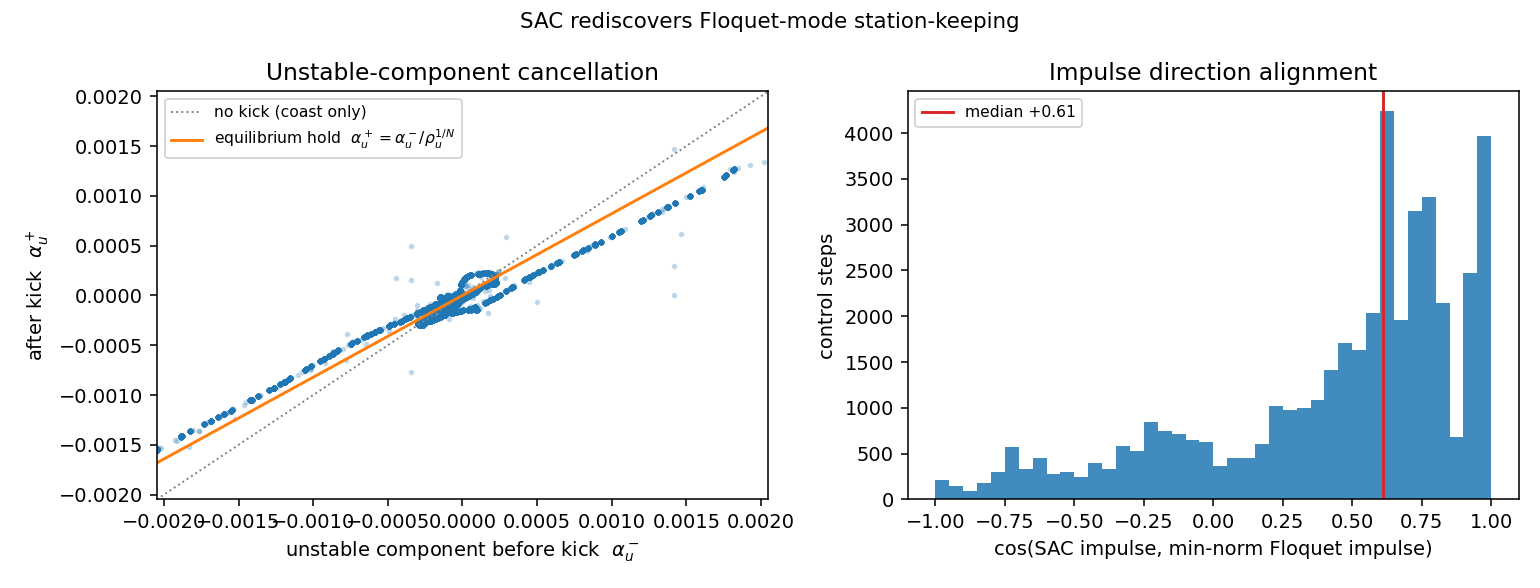
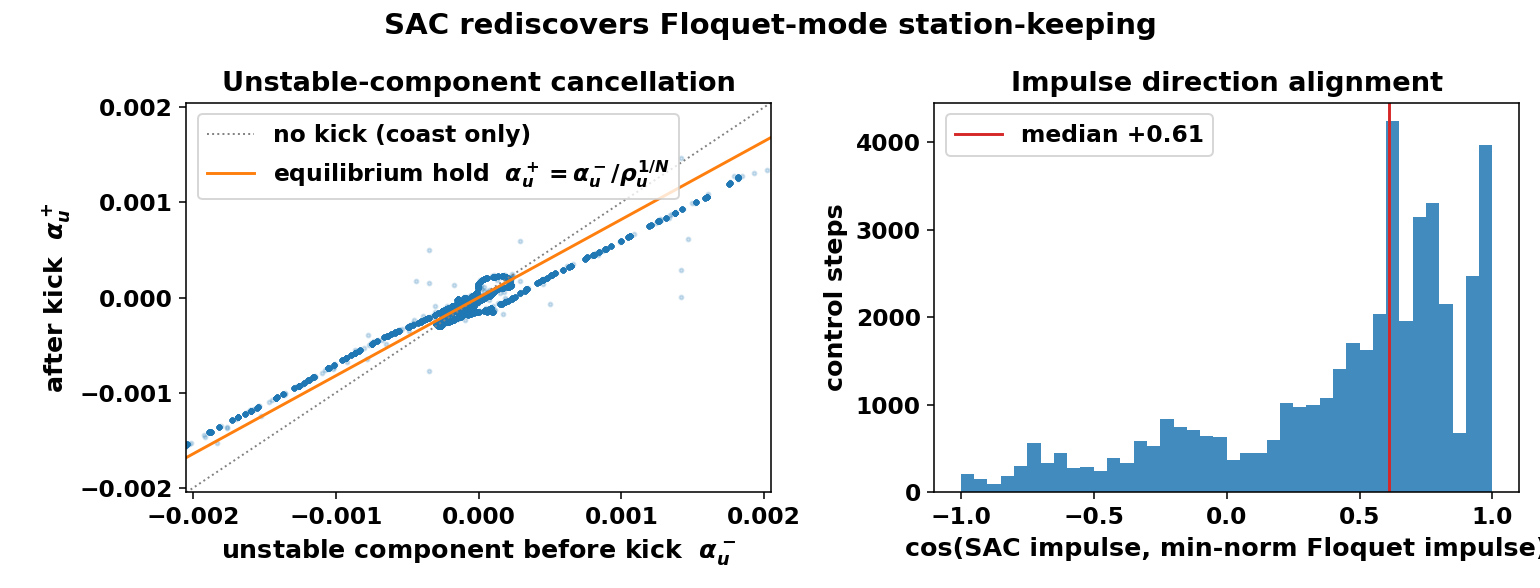
Bolder, larger figure styling for report legibility

diff --git a/scripts/generalization.py b/scripts/generalization.py
@@ -33,7 +33,8 @@ from stable_baselines3 import SAC
 sys.path.insert(0, os.path.dirname(os.path.dirname(os.path.abspath(__file__))))
 
 from envs import ReferenceOrbit, StationKeepingConfig, StationKeepingEnv  # noqa: E402
-from scripts.lqr_baseline import gain_schedule, LQRPolicy, eval_policy, summarise  # noqa: E402
+from scripts.lqr_baseline import (  # noqa: E402
+    gain_schedule, gain_schedule_periodic, LQRPolicy, eval_policy, summarise)
 from scripts.benchmark import EM_V_STAR_MS  # noqa: E402
 
 ROOT = os.path.dirname(os.path.dirname(os.path.abspath(__file__)))
@@ -74,10 +75,43 @@ def eval_sac_pooled(models, env, n_episodes):
     return (np.concatenate(dvr), np.concatenate(tot), np.concatenate(surv))
 
 
-def sweep(amps, n_sac, n_lqr, libration="L1"):
+def crossovers(rows, ret_tol=0.99):
+    """Where SAC starts to earn its keep as amplitude grows. Returns two amplitudes
+    (either None if it never happens in range):
+
+    dv_crossover     -- SAC's median dV/rev first drops to/below the LQR's while
+                        BOTH still hold the orbit (log-linear interpolation between
+                        the bracketing amplitudes). Below this, LQR is as good or
+                        cheaper and the linear model is adequate; above it, the
+                        residual nonlinearity a linear controller cannot see makes
+                        the learned policy cheaper.
+    retention_crossover -- smallest amplitude at which the LQR starts losing the
+                        orbit (retention < ret_tol) while SAC still holds it. The
+                        stark point: linearisation fails outright, SAC does not.
+    """
+    live = [r for r in rows if "sac" in r]
+    dv_x = None
+    both = [r for r in live if r["sac"]["retention_pooled"] >= ret_tol
+            and r["lqr"]["retention_pooled"] >= ret_tol]
+    for a, b in zip(both, both[1:]):
+        d0 = a["sac"]["dv_per_rev_median_ms"] - a["lqr"]["dv_per_rev_median_ms"]
+        d1 = b["sac"]["dv_per_rev_median_ms"] - b["lqr"]["dv_per_rev_median_ms"]
+        if d0 > 0.0 and d1 <= 0.0:              # SAC crosses from dearer to cheaper
+            frac = d0 / (d0 - d1)
+            dv_x = a["amplitude"] + frac * (b["amplitude"] - a["amplitude"])
+            break
+    ret_x = next((r["amplitude"] for r in live
+                  if r["lqr"]["retention_pooled"] < ret_tol
+                  and r["sac"]["retention_pooled"] >= ret_tol), None)
+    return {"dv_crossover_amplitude": dv_x, "retention_crossover_amplitude": ret_x,
+            "retention_tol": ret_tol}
+
+
+def sweep(amps, n_sac, n_lqr, libration="L1", lqr_schedule="periodic"):
     models, paths = sac_models()
+    schedule = gain_schedule_periodic if lqr_schedule == "periodic" else gain_schedule
     print(f"loaded {len(models)} SAC seeds (trained on L1); "
-          f"evaluating on {libration}; LQR rho={LQR_RHO}", flush=True)
+          f"evaluating on {libration}; LQR={lqr_schedule} rho={LQR_RHO}", flush=True)
     rows = []
     for amp in amps:
         cfg, ref = build_reference(amp, libration)
@@ -90,9 +124,9 @@ def sweep(amps, n_sac, n_lqr, libration="L1"):
         d, t, s = eval_sac_pooled(models, env, n_sac)
         sac = summarise(d, t, s, "SAC(zero-shot)")
 
-        _, gains = gain_schedule(ref, cfg, LQR_RHO)
+        _, gains = schedule(ref, cfg, LQR_RHO)
         d, t, s = eval_policy(LQRPolicy(gains, cfg), env, n_lqr)
-        lqr = summarise(d, t, s, "LQR(per-orbit)")
+        lqr = summarise(d, t, s, f"LQR-{lqr_schedule}(per-orbit)")
 
         rho_u = float(ref.monodromy_floquet()["rho_unstable"].real)
         rows.append({"amplitude": amp, "period": ref.period, "rho_unstable": rho_u,
@@ -101,9 +135,40 @@ def sweep(amps, n_sac, n_lqr, libration="L1"):
               f"SAC {sac['dv_per_rev_median_ms']:6.1f} m/s @{sac['retention_pooled']:.3f}  | "
               f"LQR {lqr['dv_per_rev_median_ms']:6.1f} m/s @{lqr['retention_pooled']:.3f}",
               flush=True)
+    xover = crossovers(rows)
+    if xover["dv_crossover_amplitude"] is not None:
+        print(f"dV crossover: SAC becomes cheaper at amplitude "
+              f"~{xover['dv_crossover_amplitude']:.4f} "
+              f"(~{xover['dv_crossover_amplitude']*384400:.0f} km)", flush=True)
+    if xover["retention_crossover_amplitude"] is not None:
+        print(f"retention crossover: LQR starts losing the orbit at amplitude "
+              f"~{xover['retention_crossover_amplitude']:.4f} "
+              f"(~{xover['retention_crossover_amplitude']*384400:.0f} km); SAC still holds",
+              flush=True)
     return {"n_sac_seeds": len(models), "n_sac_episodes": n_sac,
-            "n_lqr_episodes": n_lqr, "lqr_rho": LQR_RHO, "train_amplitude": TRAIN_AMP,
-            "libration_point": libration, "rows": rows}
+            "n_lqr_episodes": n_lqr, "lqr_rho": LQR_RHO, "lqr_schedule": lqr_schedule,
+            "train_amplitude": TRAIN_AMP, "libration_point": libration,
+            "crossovers": xover, "rows": rows}
+
+
+def _crossover_line(res):
+    """Prose summary of where SAC overtakes the linear baseline."""
+    x = res.get("crossovers", {})
+    parts = []
+    if x.get("dv_crossover_amplitude") is not None:
+        a = x["dv_crossover_amplitude"]
+        parts.append(f"SAC becomes the cheaper controller at amplitude "
+                     f"**~{a:.4f}** (~{a*384400:.0f} km): below this the linear model "
+                     f"is adequate and LQR matches or beats it; above it the residual "
+                     f"nonlinearity makes the learned policy cheaper.")
+    else:
+        parts.append("No dV crossover in the swept range (LQR is not overtaken on "
+                     "fuel where both hold the orbit).")
+    if x.get("retention_crossover_amplitude") is not None:
+        a = x["retention_crossover_amplitude"]
+        parts.append(f" The LQR then starts losing the orbit outright at **~{a:.4f}** "
+                     f"(~{a*384400:.0f} km) while SAC still holds it.")
+    return "**Crossover.** " + "".join(parts) + "\n"
 
 
 def write_markdown(res):
@@ -111,9 +176,10 @@ def write_markdown(res):
     lines = [f"# Generalisation across the {lib} Lyapunov orbit family\n",
              f"One SAC policy trained at amplitude {TRAIN_AMP} on an **L1** orbit "
              f"(pooled over {res['n_sac_seeds']} seeds), evaluated **zero-shot** on "
-             f"**{lib}** orbits across amplitudes; the LQR gain schedule is re-derived "
-             f"at each amplitude (rho={LQR_RHO}). SAC over {res['n_sac_episodes']} "
-             f"eps/seed, LQR over {res['n_lqr_episodes']} eps.\n",
+             f"**{lib}** orbits across amplitudes; the {res.get('lqr_schedule','periodic')} "
+             f"LQR gain schedule is re-derived at each amplitude (rho={LQR_RHO}). SAC over "
+             f"{res['n_sac_episodes']} eps/seed, LQR over {res['n_lqr_episodes']} eps.\n",
+             _crossover_line(res),
              "| amp | ~km | T (TU) | rho_u | SAC dV/rev [IQR] | SAC ret. | "
              "LQR dV/rev [IQR] | LQR ret. |",
              "|---|---|---|---|---|---|---|---|"]
@@ -151,21 +217,27 @@ def make_figure(res, path):
     lqr_ret = [r["lqr"]["retention_pooled"] for r in live]
 
     lib = res.get("libration_point", "L1")
+    from scripts._figstyle import apply_bold_style
+    apply_bold_style()
     fig, (ax1, ax2) = plt.subplots(1, 2, figsize=(11, 4.2))
-    fig.suptitle(f"SAC trained on L1, evaluated zero-shot on {lib}", fontsize=11)
+    fig.suptitle(f"SAC trained on L1, evaluated zero-shot on {lib}")
     ax1.plot(amp, sac_dv, "o-", label="SAC (one policy, zero-shot)", color="C0")
     ax1.plot(amp, lqr_dv, "s--", label="LQR (re-derived per orbit)", color="C1")
     ax1.axvline(TRAIN_AMP, color="grey", ls=":", lw=1, label="SAC training orbit")
+    xa = res.get("crossovers", {}).get("dv_crossover_amplitude")
+    if xa is not None:
+        ax1.axvline(xa, color="C2", ls="-.", lw=1.2,
+                    label=f"crossover ~{xa:.4f} (~{xa*384400:.0f} km)")
     ax1.set_xlabel("Lyapunov amplitude (canonical)")
     ax1.set_ylabel("dV per rev (m/s)")
-    ax1.set_yscale("log"); ax1.legend(fontsize=8); ax1.set_title("Fuel cost")
+    ax1.set_yscale("log"); ax1.legend(); ax1.set_title("Fuel cost")
 
     ax2.plot(amp, sac_ret, "o-", color="C0", label="SAC")
     ax2.plot(amp, lqr_ret, "s--", color="C1", label="LQR")
     ax2.axvline(TRAIN_AMP, color="grey", ls=":", lw=1)
     ax2.set_xlabel("Lyapunov amplitude (canonical)")
     ax2.set_ylabel("tube retention"); ax2.set_ylim(-0.05, 1.05)
-    ax2.legend(fontsize=8); ax2.set_title("Survival")
+    ax2.legend(); ax2.set_title("Survival")
     fig.tight_layout(); fig.savefig(path, dpi=140)
     print(f"wrote {path}")
 
@@ -180,8 +252,10 @@ def combined_figure(path):
     except ImportError:
         print("matplotlib not available -- skipping combined figure")
         return
+    from scripts._figstyle import apply_bold_style
+    apply_bold_style()
     fig, (ax1, ax2) = plt.subplots(1, 2, figsize=(11, 4.2))
-    fig.suptitle("One L1-trained SAC policy, zero-shot across families", fontsize=11)
+    fig.suptitle("One L1-trained SAC policy, zero-shot across families")
     for tag, style in [("", "-"), ("_L2", "--")]:
         f = os.path.join(ROOT, "results", f"benchmark_generalization{tag}.json")
         if not os.path.exists(f):
@@ -200,9 +274,9 @@ def combined_figure(path):
         ax2.plot(amp, [r["lqr"]["retention_pooled"] for r in live], "s" + style,
                  color="C1", label=f"LQR ({lib})")
     ax1.set_xlabel("Lyapunov amplitude (canonical)"); ax1.set_ylabel("dV per rev (m/s)")
-    ax1.set_yscale("log"); ax1.legend(fontsize=8); ax1.set_title("Fuel cost")
+    ax1.set_yscale("log"); ax1.legend(); ax1.set_title("Fuel cost")
     ax2.set_xlabel("Lyapunov amplitude (canonical)"); ax2.set_ylabel("tube retention")
-    ax2.set_ylim(-0.05, 1.05); ax2.legend(fontsize=8); ax2.set_title("Survival")
+    ax2.set_ylim(-0.05, 1.05); ax2.legend(); ax2.set_title("Survival")
     fig.tight_layout(); fig.savefig(path, dpi=140)
     print(f"wrote {path}")
 
@@ -214,6 +288,8 @@ def main():
     p.add_argument("--n-lqr", type=int, default=200)
     p.add_argument("--libration", default="L1", choices=["L1", "L2", "L3"],
                    help="libration point of the ORBITS TO EVALUATE (policy is always L1-trained)")
+    p.add_argument("--lqr-schedule", choices=["frozen", "periodic"], default="periodic",
+                   help="LQR baseline: 'periodic' is the LTV best-shot comparison")
     p.add_argument("--demo", action="store_true")
     p.add_argument("--combined", action="store_true",
                    help="only redraw the L1+L2 overlay from existing result JSONs")
@@ -226,7 +302,7 @@ def main():
         combined_figure(os.path.join(ROOT, "results", "generalization_combined.png"))
         return
 
-    res = sweep(args.amps, args.n_sac, args.n_lqr, args.libration)
+    res = sweep(args.amps, args.n_sac, args.n_lqr, args.libration, args.lqr_schedule)
     # L1 keeps the base filename; other points get suffixed so runs don't clobber.
     suffix = "" if args.libration == "L1" else f"_{args.libration}"
     with open(os.path.join(ROOT, "results", f"benchmark_generalization{suffix}.json"), "w") as f:
@@ -235,7 +311,6 @@ def main():
         f.write(write_markdown(res))
     make_figure(res, os.path.join(ROOT, "results", f"generalization{suffix}.png"))
     print(f"\nwrote results/benchmark_generalization{suffix}.{{json,md}}")
-    print("GENERALIZATION DONE")
 
 
 def _demo():

diff --git a/scripts/noise_study.py b/scripts/noise_study.py
@@ -114,21 +114,22 @@ def make_figure(res, path):
         print("matplotlib not available -- skipping figure")
         return
     km = [r["sigma_km"] for r in res["rows"]]
+    from scripts._figstyle import apply_bold_style
+    apply_bold_style()
     fig, (ax1, ax2) = plt.subplots(1, 2, figsize=(11, 4.2))
-    fig.suptitle("Zero-shot robustness to navigation noise (policy trained noise-free)",
-                 fontsize=11)
+    fig.suptitle("Zero-shot robustness to navigation noise (policy trained noise-free)")
     ax1.plot(km, [r["sac"]["dv_per_rev_median_ms"] for r in res["rows"]], "o-",
              color="C0", label="SAC (zero-shot)")
     ax1.plot(km, [r["lqr"]["dv_per_rev_median_ms"] for r in res["rows"]], "s--",
              color="C1", label="LQR (unfiltered)")
     ax1.set_xlabel("nav position 1-sigma (km)"); ax1.set_ylabel("dV per rev (m/s)")
-    ax1.set_yscale("log"); ax1.legend(fontsize=8); ax1.set_title("Fuel cost")
+    ax1.set_yscale("log"); ax1.legend(); ax1.set_title("Fuel cost")
     ax2.plot(km, [r["sac"]["retention_pooled"] for r in res["rows"]], "o-",
              color="C0", label="SAC")
     ax2.plot(km, [r["lqr"]["retention_pooled"] for r in res["rows"]], "s--",
              color="C1", label="LQR")
     ax2.set_xlabel("nav position 1-sigma (km)"); ax2.set_ylabel("tube retention")
-    ax2.set_ylim(-0.05, 1.05); ax2.legend(fontsize=8); ax2.set_title("Survival")
+    ax2.set_ylim(-0.05, 1.05); ax2.legend(); ax2.set_title("Survival")
     fig.tight_layout(); fig.savefig(path, dpi=140)
     print(f"wrote {path}")
 
@@ -140,10 +141,16 @@ def main():
     p.add_argument("--n-lqr", type=int, default=200)
     p.add_argument("--n-seeds", type=int, default=4)
     p.add_argument("--demo", action="store_true")
+    p.add_argument("--replot", action="store_true",
+                   help="redraw the figure from the cached JSON, without re-running the sweep")
     args = p.parse_args()
 
     if args.demo:
         _demo()
+        return
+    if args.replot:
+        with open(os.path.join(ROOT, "results", "benchmark_noise.json")) as f:
+            make_figure(json.load(f), os.path.join(ROOT, "results", "noise_robustness.png"))
         return
 
     res = sweep(args.sigmas, args.n_sac, args.n_lqr, args.n_seeds)
@@ -153,7 +160,6 @@ def main():
         f.write(write_markdown(res))
     make_figure(res, os.path.join(ROOT, "results", "noise_robustness.png"))
     print("\nwrote results/benchmark_noise.{json,md} + results/noise_robustness.png")
-    print("NOISE STUDY DONE")
 
 
 def _demo():

diff --git a/scripts/floquet_analysis.py b/scripts/floquet_analysis.py
@@ -156,9 +156,11 @@ def make_figure(sac_res, lqr_res, per_step_growth, path):
     except ImportError:
         print("matplotlib not available -- skipping figure")
         return
+    from scripts._figstyle import apply_bold_style
+    apply_bold_style()
     au_pre, au_post, _, _, cos = sac_res
     fig, (ax1, ax2) = plt.subplots(1, 2, figsize=(11, 4.2))
-    fig.suptitle("SAC rediscovers Floquet-mode station-keeping", fontsize=11)
+    fig.suptitle("SAC rediscovers Floquet-mode station-keeping")
     lim = np.percentile(np.abs(au_pre), 99)
     ax1.plot([-lim, lim], [-lim, lim], color="grey", ls=":", lw=1, label="no kick (coast only)")
     hold = 1.0 / per_step_growth  # alpha_u+ = alpha_u-/growth exactly holds the mode
@@ -168,14 +170,14 @@ def make_figure(sac_res, lqr_res, per_step_growth, path):
     ax1.set_xlim(-lim, lim); ax1.set_ylim(-lim, lim)
     ax1.set_xlabel(r"unstable component before kick  $\alpha_u^-$")
     ax1.set_ylabel(r"after kick  $\alpha_u^+$")
-    ax1.legend(fontsize=8); ax1.set_title("Unstable-component cancellation")
+    ax1.legend(); ax1.set_title("Unstable-component cancellation")
 
     c = cos[np.isfinite(cos)]
     ax2.hist(c, bins=40, range=(-1, 1), color="C0", alpha=0.85)
     ax2.axvline(np.median(c), color="C3", lw=1.5,
                 label=f"median {np.median(c):+.2f}")
     ax2.set_xlabel("cos(SAC impulse, min-norm Floquet impulse)")
-    ax2.set_ylabel("control steps"); ax2.legend(fontsize=8)
+    ax2.set_ylabel("control steps"); ax2.legend()
     ax2.set_title("Impulse direction alignment")
     fig.tight_layout(); fig.savefig(path, dpi=140)
     print(f"wrote {path}")
@@ -248,7 +250,6 @@ def main():
                 f"the mode; SAC does so with no model, stirring the stable mode more.\n")
     make_figure(sac_res, lqr_res, g1, os.path.join(ROOT, "results", "floquet_projection.png"))
     print("\nwrote results/floquet_analysis.{json,md} + results/floquet_projection.png")
-    print("FLOQUET DONE")
 
 
 def _demo(ref, cfg, phases, D_u, D_s, info):

diff --git a/scripts/_figstyle.py b/scripts/_figstyle.py
@@ -1,0 +1,16 @@
+"""Shared figure styling: bold, larger text and heavier lines so the report
+figures stay legible when scaled down to column width. Call apply_bold_style()
+inside a plotting function, before the figure is created."""
+
+
+def apply_bold_style():
+    import matplotlib as mpl
+    mpl.rcParams.update({
+        "font.weight": "bold",
+        "axes.titlesize": 14, "axes.titleweight": "bold",
+        "axes.labelsize": 13, "axes.labelweight": "bold",
+        "xtick.labelsize": 12, "ytick.labelsize": 12,
+        "legend.fontsize": 12, "legend.title_fontsize": 12,
+        "figure.titlesize": 15, "figure.titleweight": "bold",
+        "lines.linewidth": 2.0, "lines.markersize": 6,
+    })
